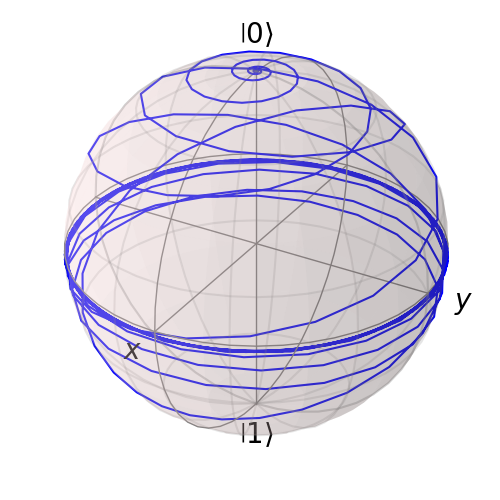
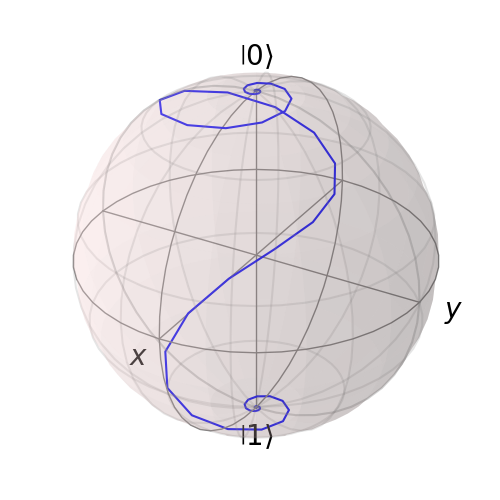
fixed utils class

Changed region(s): [[0.12, 0.03, 0.96, 0.9], [0.66, 0.6, 0.72, 0.63]]

diff --git a/utils.py b/utils.py
@@ -1,0 +1,122 @@
+from matplotlib import pyplot as plt
+import numpy as np
+import qutip as qt
+
+raising = qt.Qobj(np.array([[0, 1], [0, 0]]))
+lowering = qt.Qobj(np.array([[0, 0], [1, 0]]))
+psi_0 = qt.basis(2, 0)
+psi_1 = qt.basis(2, 1)
+omega_0 = 2*np.pi
+omega = 2.*np.pi
+
+
+def sech(t):
+    return 1/np.cosh(t)
+
+def sech_amplitude(t, alpha, tau=1):
+    return alpha/(np.pi * tau) * sech(t/tau)
+
+def sech_detuning(t, beta, delta=0, tau=1, t0=-10):#Demokov-Kunikew
+    return (beta*t + 2*delta*t + beta*(np.log(np.cosh(t))- np.log(np.cosh(t0))))/(np.pi * tau)#(omega_0 - omega)*t
+
+
+def alpha_func(phi, beta):
+    return (np.sqrt(phi**2 + beta**2)/(np.pi))*(np.pi)
+
+# def sech(t):
+#     return 1 / np.cosh(t)
+
+def square_amplitude(t, alpha, tau=1):
+    if t < -1 / (np.pi*tau):
+        return 0
+    elif t > 1 / (np.pi*tau):
+        return 0
+    else:
+        return alpha / (np.pi * tau)
+
+def square_detuning(t, beta, delta, tau=1):
+    if t < -1*(np.pi*tau)/2:
+        return 0
+    elif t > (np.pi*tau)/2:
+        return 0
+    else:
+        return -((beta+2*delta)*tau*(np.arctan(np.sin(-np.pi/2)- np.arctan(np.sin(t/tau))))) + beta*tau*np.log(np.cos(-np.pi/2)*sech(t/tau))
+
+class TLS:
+    def __init__(self, pulse_shape, psi_0=None, t_points=None, ham=None, alpha=None, beta=None, delta=None, phi=None, tau=1):
+        self.psi_0 = psi_0 if psi_0 is not None else qt.basis(2, 0)
+        self.t_points = t_points if t_points is not None else np.linspace(-10, 10, 100)
+        self.t0 = self.t_points[0]
+        self.delta = delta if delta is not None else 0
+        self.phi = phi if phi is not None else np.pi
+        self.beta = beta if beta is not None else beta
+        self.alpha = alpha if alpha is not None else alpha_func(self.phi, beta)
+        self.tau = tau
+        print(self.phi**2 - (self.alpha**2 - self.beta**2))
+        self.states = None
+        self.expect = None
+        self.evolved = False
+
+        if pulse_shape == 'square':
+            self.amplitude = lambda t: square_amplitude(t, self.alpha, tau=self.tau)
+            self.detuning = lambda t: square_detuning(t, self.beta, self.delta, tau=self.tau)
+        elif pulse_shape == 'sech':
+            self.amplitude = lambda t: sech_amplitude(t, self.alpha, tau=self.tau)
+            self.detuning = lambda t: sech_detuning(t, self.beta, delta=self.delta, tau=self.tau, t0=self.t0)
+        else:
+            raise ValueError('pulse_shape must be "square" or "sech"')
+        
+
+    def ham(self,t,args):#Hioe rotating frame
+        return 1/2*self.amplitude(t) * \
+                (np.exp(-1j*self.detuning(t))*raising + \
+                 np.exp(1j*self.detuning(t))*lowering)
+
+
+    def evolve(self,):
+        result = qt.mesolve(H=self.ham,
+                            rho0=self.psi_0,
+                            tlist=self.t_points,
+                            c_ops=[],
+                            e_ops=[qt.sigmax(), qt.sigmay(), qt.sigmaz()],
+                            options=qt.Options(store_states=True))
+        self.states = result.states
+        self.expect = result.expect
+        self.fidelities = qt.fidelity(result.states[-1], psi_1)
+        self.evolved = True
+
+        return 
+    
+    def plot(self,title='dynamics'):
+        assert self.evolved, "System not yet evolved. Nothing to plot."
+        # two subplots, one with expects, one with pulse
+        fig, (ax1, ax2) = plt.subplots(2, 1, figsize=(10, 6))
+        
+        ax1.plot(self.t_points, self.expect[0], label=r'$\langle \sigma_x \rangle$')
+        ax1.plot(self.t_points, self.expect[1], label=r'$\langle \sigma_y \rangle$')
+        ax1.plot(self.t_points, self.expect[2], label=r'$\langle \sigma_z \rangle$')
+        ax1.legend(loc=0)
+        ax1.set_xlabel('Time')
+        ax1.set_ylabel('Expectation values')
+        ax1.set_title('Sech Pulse Effect')
+
+        ax2.plot(self.t_points, [self.amplitude(t_point) for t_point in self.t_points])
+        ax2.set_xlabel('Time')
+        ax2.set_ylabel('Pulse amplitude')
+        ax2.set_title('Pulse amplitude')
+        plt.savefig(title + '.png')
+        return
+    
+    def plot_bloch(self, title='bloch-path'):
+        assert self.evolved, "System not yet evolved. Nothing to plot."
+
+        # Plot on Bloch sphere
+        fig, ax = plt.subplots(figsize=(5, 5), subplot_kw=dict(projection='3d'))
+
+        ax.axis('square') # to get a nice circular plot
+        ax.set_title('Bloch Sphere')
+        b = qt.Bloch(fig=fig, axes=ax)
+        b.add_points([self.expect[0], self.expect[1], self.expect[2]], meth='l')
+
+        fig.tight_layout()
+        b.save(title + '.png')

diff --git a/dynamics.py b/dynamics.py
@@ -1,81 +1,15 @@
 import numpy as np
-import qutip as qt
-import matplotlib.pyplot as plt
-import multiprocessing as mp
-
-precision = 20
-range = 1
-
-beta_list = []
-x_expectations_list = []
-y_expectations_list = []
-z_expectations_list = []
-fidelity_list = []
-omega_0 = 2*np.pi
-omega = 2.01*np.pi
-tau = 1
-
-raising = qt.Qobj(np.array([[0,1],[0,0]]))
-lowering = qt.Qobj(np.array([[0,0],[1,0]]))
+from utils import TLS
 
 # Define time points
-n_points = 100
+n_points = 1000
 t_points = np.linspace(-10, 10, n_points)
 
-def sech(t):
-    return 1/np.cosh(t/tau)
+beta = 3*np.pi
+sys = TLS('sech', beta=beta, delta=-beta/2)
+sys.evolve()
+sys.plot()
+sys.plot_bloch()
 
-def Amplitude(t):
-    return alpha/(np.pi * tau) * sech(t/tau)
+# get population of excited state:
 
-def Detuning(t):#Demokov-Kunikew
-    return (beta*t + 2*(omega_0 - omega)*t + beta*(np.log(np.cosh(t))- np.log(np.cosh(t_points[0]))))/(np.pi * tau)#(omega_0 - omega)*t
-#def Detuning(t):#Allen-Ebberly
-    return ((omega_0 - omega)*t + beta*(np.log(np.cosh(t))- np.log(np.cosh(t_points[0]))))/(np.pi * tau)#(omega_0 - omega)*t
-
-def rabi_ham(t, args):#Hioe rotating frame
-    return 1/2*Amplitude(t)*np.exp(-1j*Detuning(t))*raising + 1/2*Amplitude(t)*np.exp(1j*Detuning(t))*lowering
-
-
-psi_0 = qt.basis(2,0)
-min_beta = -1
-max_beta = 2
-num_beta_steps = 40
-betas = np.linspace(min_beta,max_beta,num_beta_steps)
-
-for beta in betas:
-    beta *= np.pi
-    alpha = (np.sqrt(np.pi*np.pi + beta*beta)/(np.pi))*(np.pi)
-
-
-    # Simulate time evolution
-    result = qt.mesolve(H=rabi_ham,
-                        rho0=psi_0,
-                        tlist=t_points,
-                        c_ops=[],
-                        e_ops=[qt.sigmax(), qt.sigmay(), qt.sigmaz()],
-                        options=qt.Options(store_states=True))
-
-    # get population of excited state:
-
-    x_expectations_list.append(result.expect[0][-1])
-    y_expectations_list.append(result.expect[1][-1])
-    z_expectations_list.append(result.expect[2][-1])
-    fidelity_list.append(qt.fidelity(result.states[-1],qt.basis(2,1)))
-    print(fidelity_list[-1])
-
-x_expectations_array = np.array(x_expectations_list)
-y_expectations_array = np.array(y_expectations_list)
-z_expectations_array = np.array(z_expectations_list)
-fidelity_array = np.array((fidelity_list))
-
-#print(alpha*alpha - beta*beta)
-#print(np.pi*np.pi)
-#print(beta/np.pi)
-#print(result.expect[0][-1],result.expect[1][-1],result.expect[2][-1])
-
-plt.plot(betas,fidelity_array)
-#plt.plot(beta_array/2,x_expectations_array,beta_array/2,y_expectations_array)
-#plt.plot(beta_array/2,z_expectations_array)
-plt.savefig('fidelity_old.png')
-# plt.show()
